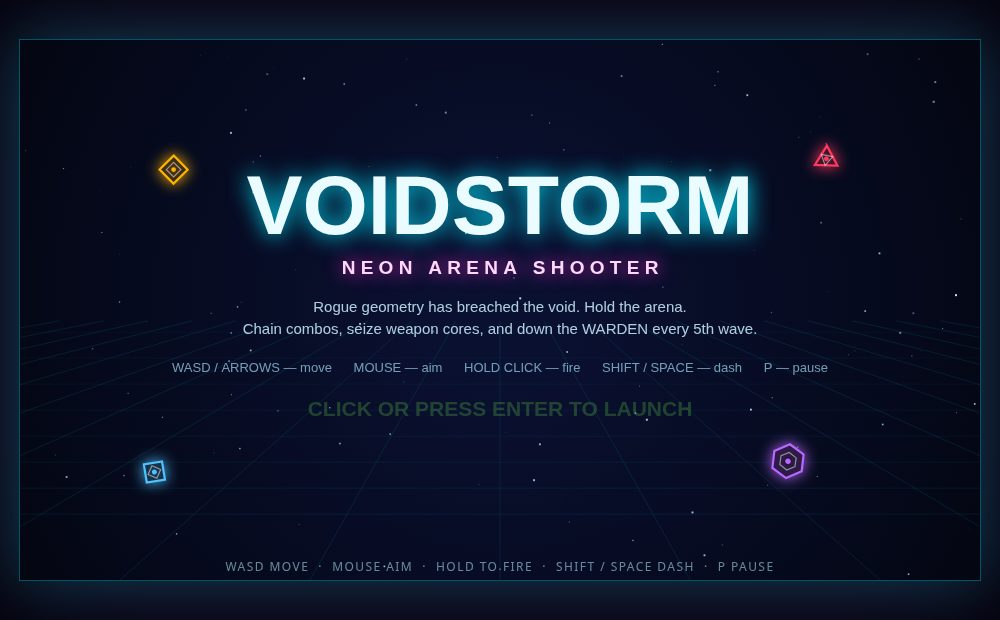
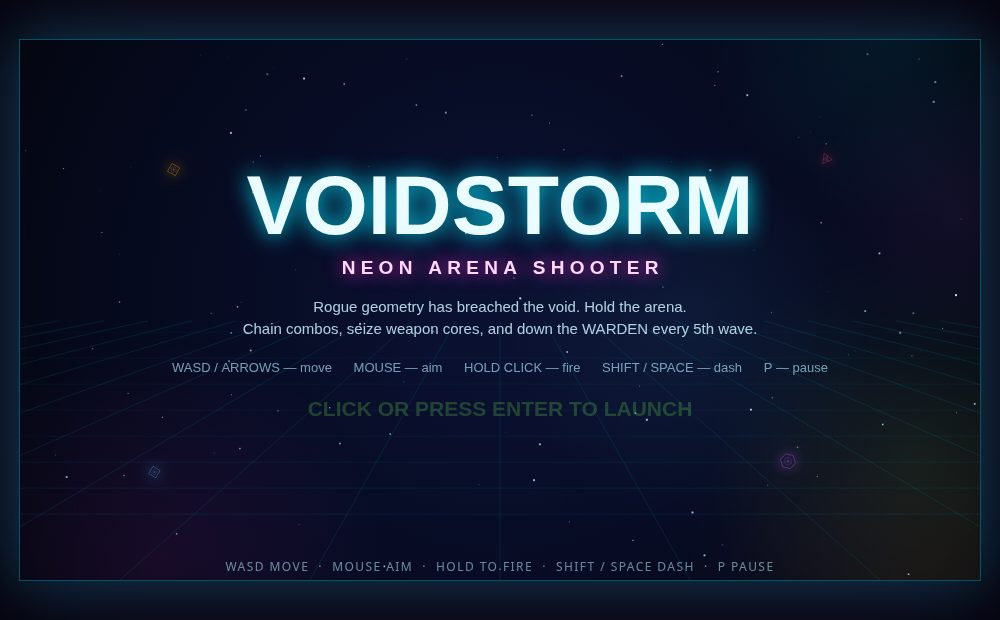
VOIDSTORM v2: charger enemy with dash telegraph, warp-in spawns, bullet trails, nebulae, low-hull warning, boss screenshot

diff --git a/game/index.html b/game/index.html
@@ -117,6 +117,9 @@ let parts = [];     // particles
 let pickups = [];
 let stars = [];
 for (let i = 0; i < 130; i++) stars.push({ x: rnd(0, W), y: rnd(0, H), z: rnd(0.25, 1), tw: rnd(0, TAU) });
+let nebulae = [];
+const NEBC = ['0,229,255', '255,43,214', '185,103,255', '79,195,255', '255,122,24', '124,255,79'];
+for (let i = 0; i < 6; i++) nebulae.push({ x: rnd(0, W), y: rnd(0, H), r: rnd(130, 270), c: NEBC[i % NEBC.length] });
 
 /* ---------- input ---------- */
 const keys = {};
@@ -181,6 +184,7 @@ const ETYPES = {
   splitter:{ hp: 6,  r: 17, spd: 55,  score: 200, color: '#b967ff', sides: 6 },
   mini:    { hp: 1,  r: 8,  spd: 128, score: 50,  color: '#e879ff', sides: 3 },
   sniper:  { hp: 4,  r: 13, spd: 74,  score: 250, color: '#4fc3ff', sides: 4 },
+  charger: { hp: 4,  r: 13, spd: 80,  score: 200, color: '#ff7a18', sides: 5 },
   warden:  { hp: 90, r: 44, spd: 30,  score: 3000, color: '#ff1744', sides: 8 },
 };
 function spawnPos() {
@@ -207,6 +211,7 @@ function spawnEnemy(type, x, y) {
     rot: rnd(0, TAU), rotSpd: rnd(-2.4, 2.4),
     fireCd: rnd(1.2, 2.6), tele: 0, burstCd: rnd(2.5, 4), phase: rnd(0, TAU),
     flash: 0, wob: rnd(0, TAU),
+    warp: 0.35, mode: 'stalk', modeT: rnd(0.2, 0.9), dvx: 0, dvy: 0,
   });
 }
 function startWave(n) {
@@ -226,9 +231,10 @@ function startWave(n) {
     for (let i = 0; i < count; i++) {
       let type = 'chaser';
       const roll = rng();
-      if (n >= 4 && roll < 0.16) type = 'sniper';
-      else if (n >= 3 && roll < 0.38) type = 'splitter';
-      else if (n >= 2 && roll < 0.62) type = 'spinner';
+      if (n >= 4 && roll < 0.14) type = 'sniper';
+      else if (n >= 3 && roll < 0.30) type = 'splitter';
+      else if (n >= 2 && roll < 0.46) type = 'charger';
+      else if (n >= 2 && roll < 0.66) type = 'spinner';
       spawnEnemy(type);
     }
   }
@@ -389,7 +395,31 @@ function step(dt) {
     const dx = player.x - e.x, dy = player.y - e.y;
     const d = Math.hypot(dx, dy) || 1;
     const ux = dx / d, uy = dy / d;
-    if (e.type === 'sniper') {
+    if (e.warp > 0) {
+      e.warp -= dt; // warp-in: visible but not yet dangerous
+    } else if (e.type === 'charger') {
+      e.modeT -= dt;
+      if (e.mode === 'stalk') {
+        e.x += ux * e.spd * dt; e.y += uy * e.spd * dt;
+        e.rot = Math.atan2(dy, dx);
+        if (d < 320 && e.modeT <= 0) { e.mode = 'aim'; e.modeT = 0.55; e.tele = 1; }
+      } else if (e.mode === 'aim') {
+        e.rot = Math.atan2(dy, dx);
+        e.x += Math.cos(e.wob * 40) * 5 * dt; // shiver while locking on
+        if (e.modeT <= 0) {
+          e.mode = 'dash'; e.modeT = 0.38; e.tele = 0;
+          e.dvx = Math.cos(e.rot) * 540; e.dvy = Math.sin(e.rot) * 540;
+          beep(220, 0.14, 'square', 0.06, 660);
+        }
+      } else if (e.mode === 'dash') {
+        e.x += e.dvx * dt; e.y += e.dvy * dt;
+        parts.push({ x: e.x, y: e.y, vx: 0, vy: 0, life: 0.18, max: 0.18, color: e.color, size: 8, ghost: true });
+        if (e.modeT <= 0) { e.mode = 'cool'; e.modeT = 0.85; }
+      } else { // cool
+        e.x += ux * e.spd * 0.35 * dt; e.y += uy * e.spd * 0.35 * dt;
+        if (e.modeT <= 0) { e.mode = 'stalk'; e.modeT = rnd(0.1, 0.5); }
+      }
+    } else if (e.type === 'sniper') {
       const want = 260;
       const dir = d > want + 30 ? 1 : (d < want - 30 ? -1 : 0);
       e.x += (ux * e.spd * dir + -uy * Math.sin(e.wob) * 26) * dt;
@@ -435,7 +465,7 @@ function step(dt) {
     }
     e.x = clamp(e.x, e.r, W - e.r); e.y = clamp(e.y, e.r, H - e.r);
     /* touch damage */
-    if (player.alive && dist2(e.x, e.y, player.x, player.y) < (e.r + player.r - 3) * (e.r + player.r - 3)) {
+    if (e.warp <= 0 && player.alive && dist2(e.x, e.y, player.x, player.y) < (e.r + player.r - 3) * (e.r + player.r - 3)) {
       hurtPlayer(e.type === 'warden' ? 18 : 11);
       const kb = 260;
       player.vx += ux * kb; player.vy += uy * kb;
@@ -504,6 +534,14 @@ function drawBackground() {
   g.addColorStop(1, '#03040c');
   ctx.fillStyle = g;
   ctx.fillRect(0, 0, W, H);
+  // soft nebula clouds
+  for (const nb of nebulae) {
+    const ng = ctx.createRadialGradient(nb.x, nb.y, 0, nb.x, nb.y, nb.r);
+    ng.addColorStop(0, 'rgba(' + nb.c + ',0.075)');
+    ng.addColorStop(1, 'rgba(' + nb.c + ',0)');
+    ctx.fillStyle = ng;
+    ctx.fillRect(nb.x - nb.r, nb.y - nb.r, nb.r * 2, nb.r * 2);
+  }
   // perspective grid floor
   ctx.strokeStyle = 'rgba(0,229,255,0.10)';
   ctx.lineWidth = 1;
@@ -553,6 +591,12 @@ function drawEnemies() {
   for (const e of enemies) {
     ctx.save();
     ctx.translate(e.x, e.y);
+    if (e.warp > 0) { // warp-in: shrink + fade while materialising
+      const wf = clamp(e.warp / 0.35, 0, 1);
+      ctx.globalAlpha = 1 - wf * 0.65;
+      const ws = 1 - wf * 0.55;
+      ctx.scale(ws, ws);
+    }
     ctx.shadowColor = e.color; ctx.shadowBlur = 14;
     ctx.strokeStyle = e.flash > 0 ? '#ffffff' : e.color;
     ctx.fillStyle = 'rgba(10,8,24,0.85)';
@@ -567,9 +611,10 @@ function drawEnemies() {
     ctx.fillStyle = e.flash > 0 ? '#fff' : e.color;
     ctx.beginPath(); ctx.arc(0, 0, Math.max(2.4, e.r * 0.16), 0, TAU); ctx.fill();
     ctx.restore();
-    if (e.tele) { // sniper telegraph
+    if (e.tele) { // telegraph (sniper shot / charger dash)
       ctx.save();
-      ctx.strokeStyle = 'rgba(79,195,255,0.5)';
+      ctx.strokeStyle = e.color;
+      ctx.globalAlpha = 0.45;
       ctx.setLineDash([6, 8]);
       ctx.beginPath(); ctx.moveTo(e.x, e.y); ctx.lineTo(player.x, player.y); ctx.stroke();
       ctx.restore();
@@ -585,6 +630,9 @@ function drawEnemies() {
 function drawBullets() {
   for (const b of bullets) {
     ctx.save();
+    ctx.strokeStyle = b.color; ctx.globalAlpha = 0.45; ctx.lineWidth = 2;
+    ctx.beginPath(); ctx.moveTo(b.x - b.vx * 0.024, b.y - b.vy * 0.024); ctx.lineTo(b.x, b.y); ctx.stroke();
+    ctx.globalAlpha = 1;
     ctx.shadowColor = b.color; ctx.shadowBlur = 12;
     ctx.fillStyle = b.color;
     ctx.beginPath(); ctx.arc(b.x, b.y, b.r, 0, TAU); ctx.fill();
@@ -697,6 +745,13 @@ function drawHUD() {
   ctx.textAlign = 'left';
   ctx.fillStyle = 'rgba(200,240,255,0.6)';
   ctx.fillText('HOSTILES ' + enemies.length, 16, H - 12);
+  // low-hull warning vignette
+  if (G.state === 'playing' && player.hp <= 30 && player.alive) {
+    const a = 0.20 + 0.16 * Math.sin(G.time * 6);
+    ctx.strokeStyle = 'rgba(255,30,60,' + a.toFixed(3) + ')';
+    ctx.lineWidth = 24;
+    ctx.strokeRect(0, 0, W, H);
+  }
   ctx.restore();
   // wave banner
   if (G.waveBanner > 0 && G.state === 'playing') {
@@ -856,6 +911,29 @@ function shotScene() {
       step(1 / 60);
     }
     mouse.down = false; keys['KeyA'] = false; keys['KeyW'] = false;
+    G.waveBanner = 0;
+  } else if (SHOT === 'boss') {
+    startGame();
+    enemies = []; ebullets = [];
+    G.wave = 5; G.score = 9650; G.kills = 41; G.combo = 3; G.comboTimer = 2.2;
+    player.hp = 54; player.weapon = 'rapid'; player.weaponTimer = 9;
+    player.x = W * 0.34; player.y = H * 0.64;
+    spawnEnemy('warden', W * 0.64, H * 0.32);
+    const wd = enemies[enemies.length - 1];
+    wd.hp = 52; wd.warp = 0; wd.burstCd = 1.0; wd.fireCd = 0.5;
+    spawnEnemy('mini', W * 0.8, H * 0.62);
+    spawnEnemy('spinner', W * 0.16, H * 0.2);
+    enemies.forEach((e) => { e.warp = 0; });
+    pickups.push({ x: W * 0.5, y: H * 0.82, kind: 'health', r: 10, t: 1, life: 10 });
+    for (let i = 0; i < 120; i++) {
+      mouse.x = wd.x; mouse.y = wd.y;
+      mouse.down = i % 4 !== 0;
+      keys['KeyD'] = i % 40 < 20; keys['KeyA'] = i % 40 >= 20;
+      keys['KeyS'] = i % 26 < 13; keys['KeyW'] = i % 26 >= 13;
+      step(1 / 60);
+    }
+    mouse.down = false; keys['KeyD'] = false; keys['KeyA'] = false; keys['KeyS'] = false; keys['KeyW'] = false;
+    if (G.state === 'draft') G.state = 'playing';
     G.waveBanner = 0;
   } else if (SHOT === 'end') {
     startGame();
